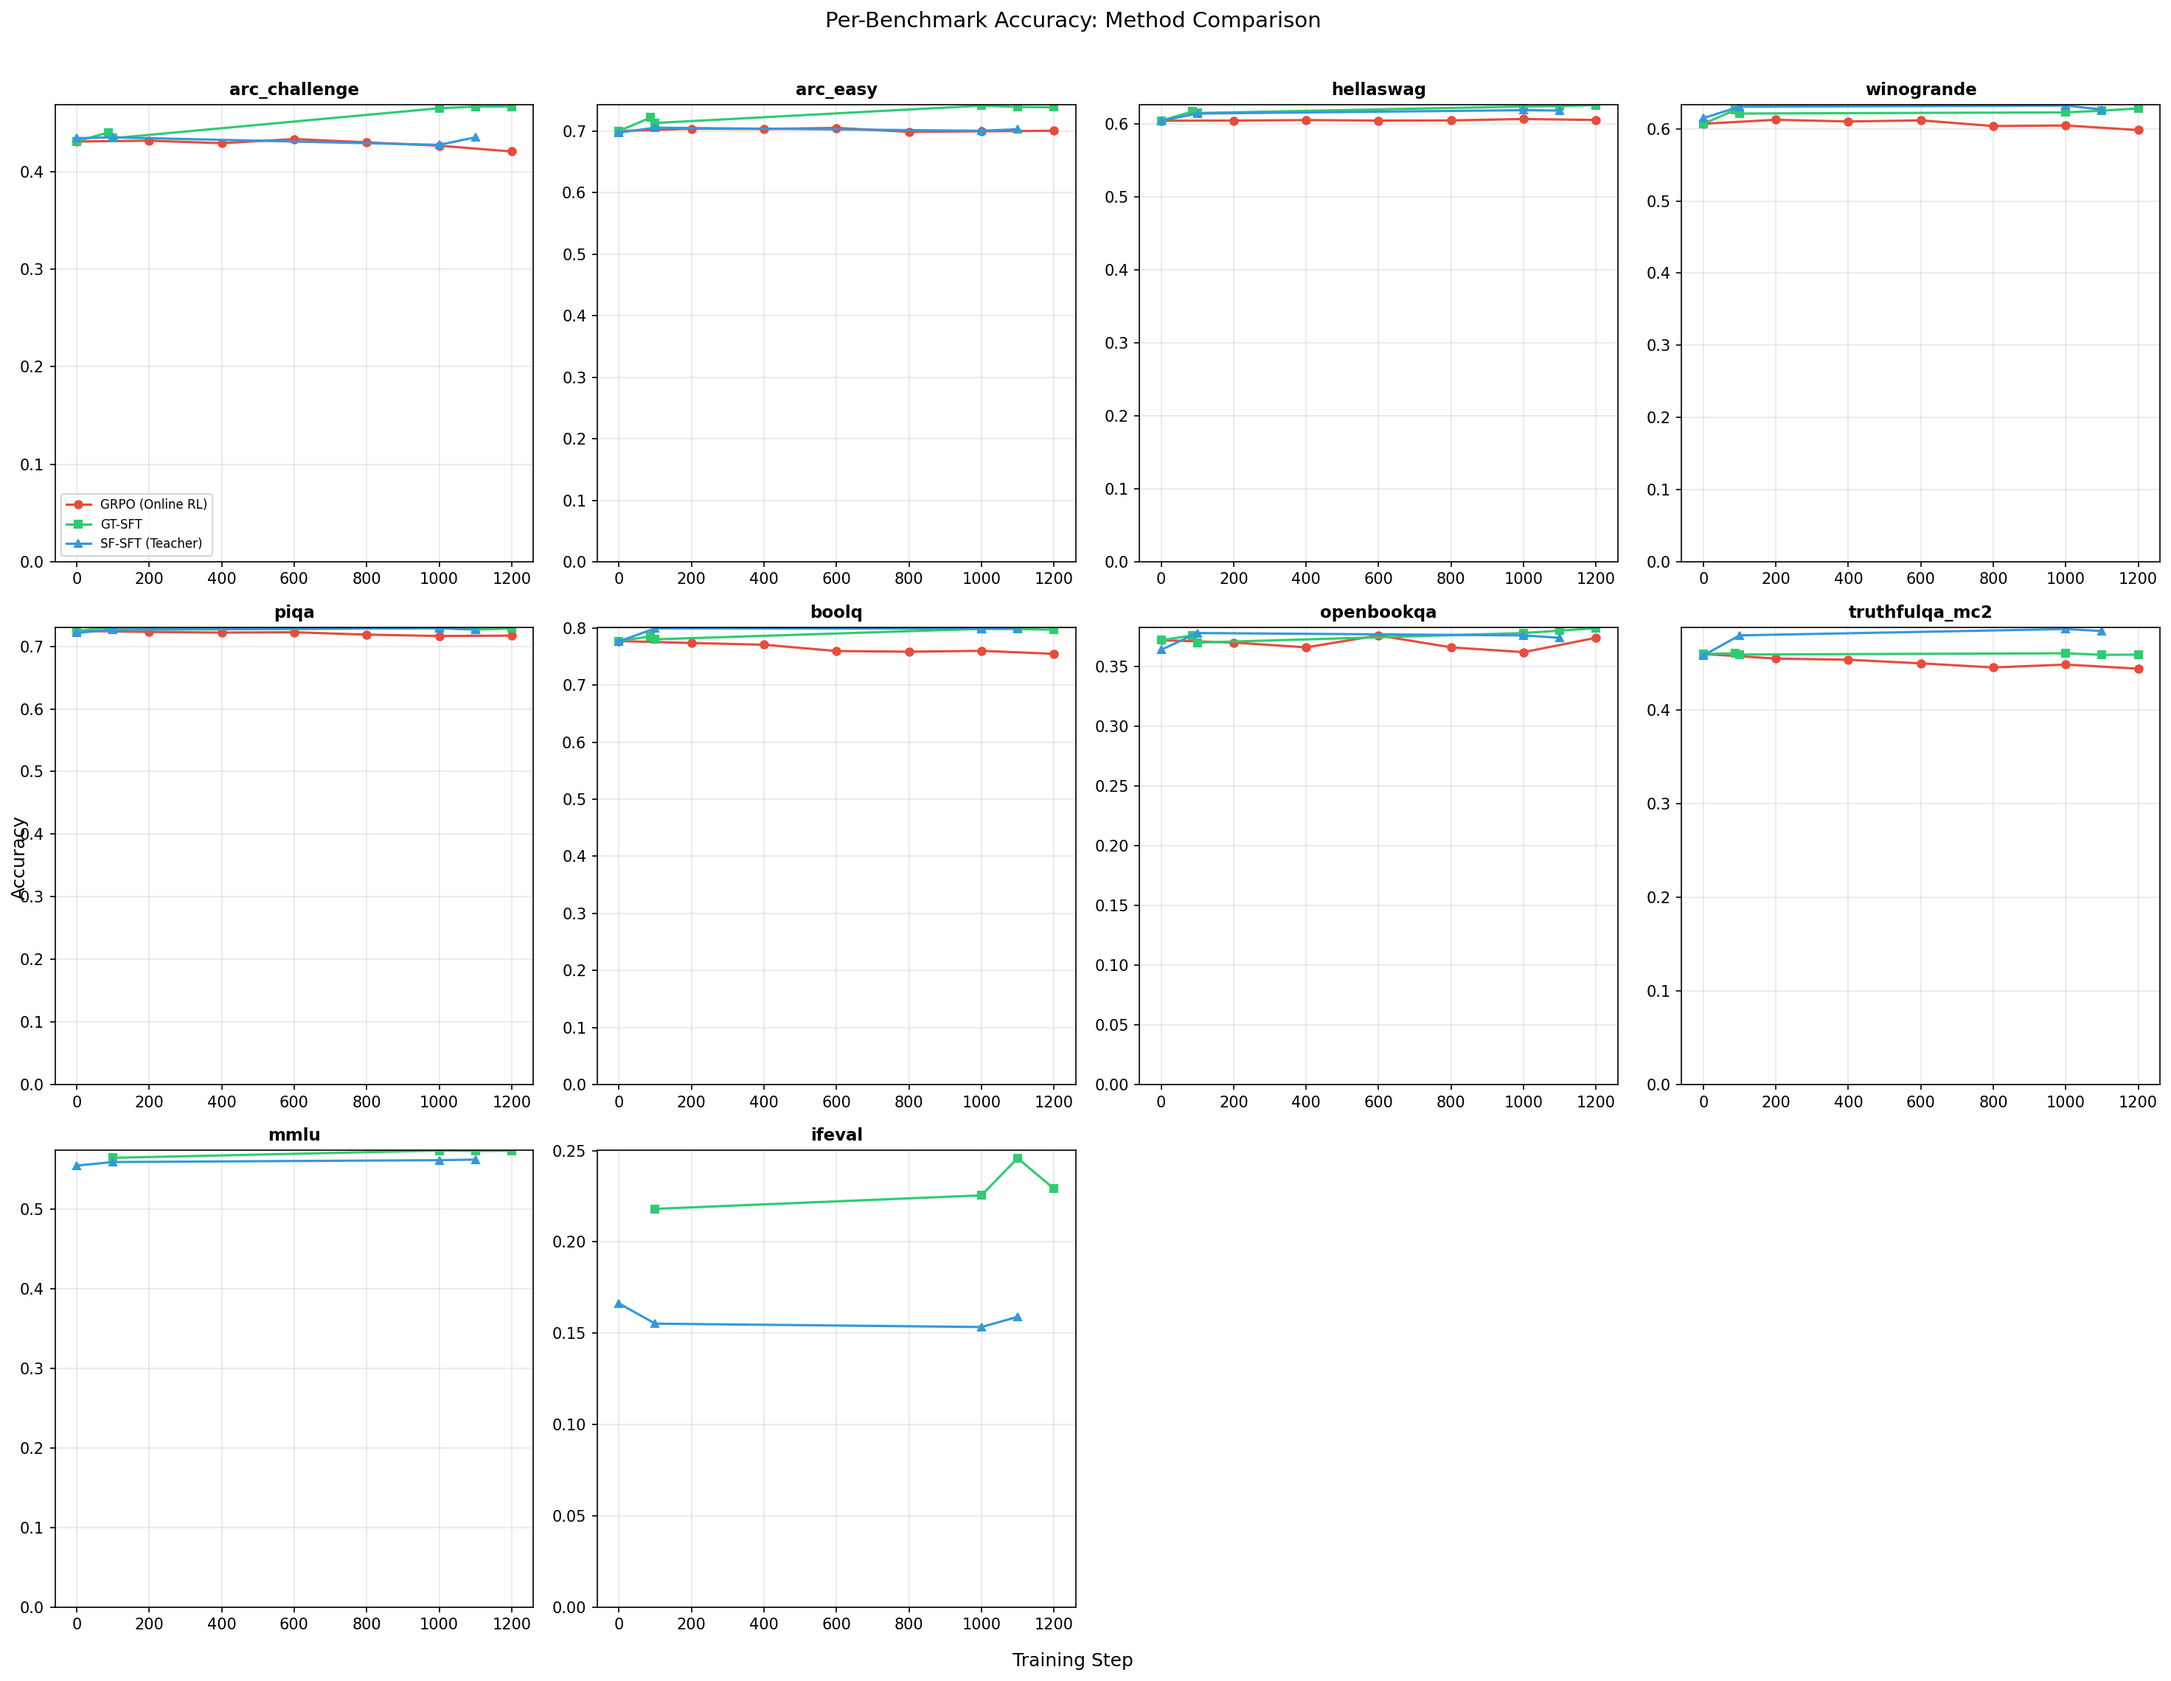
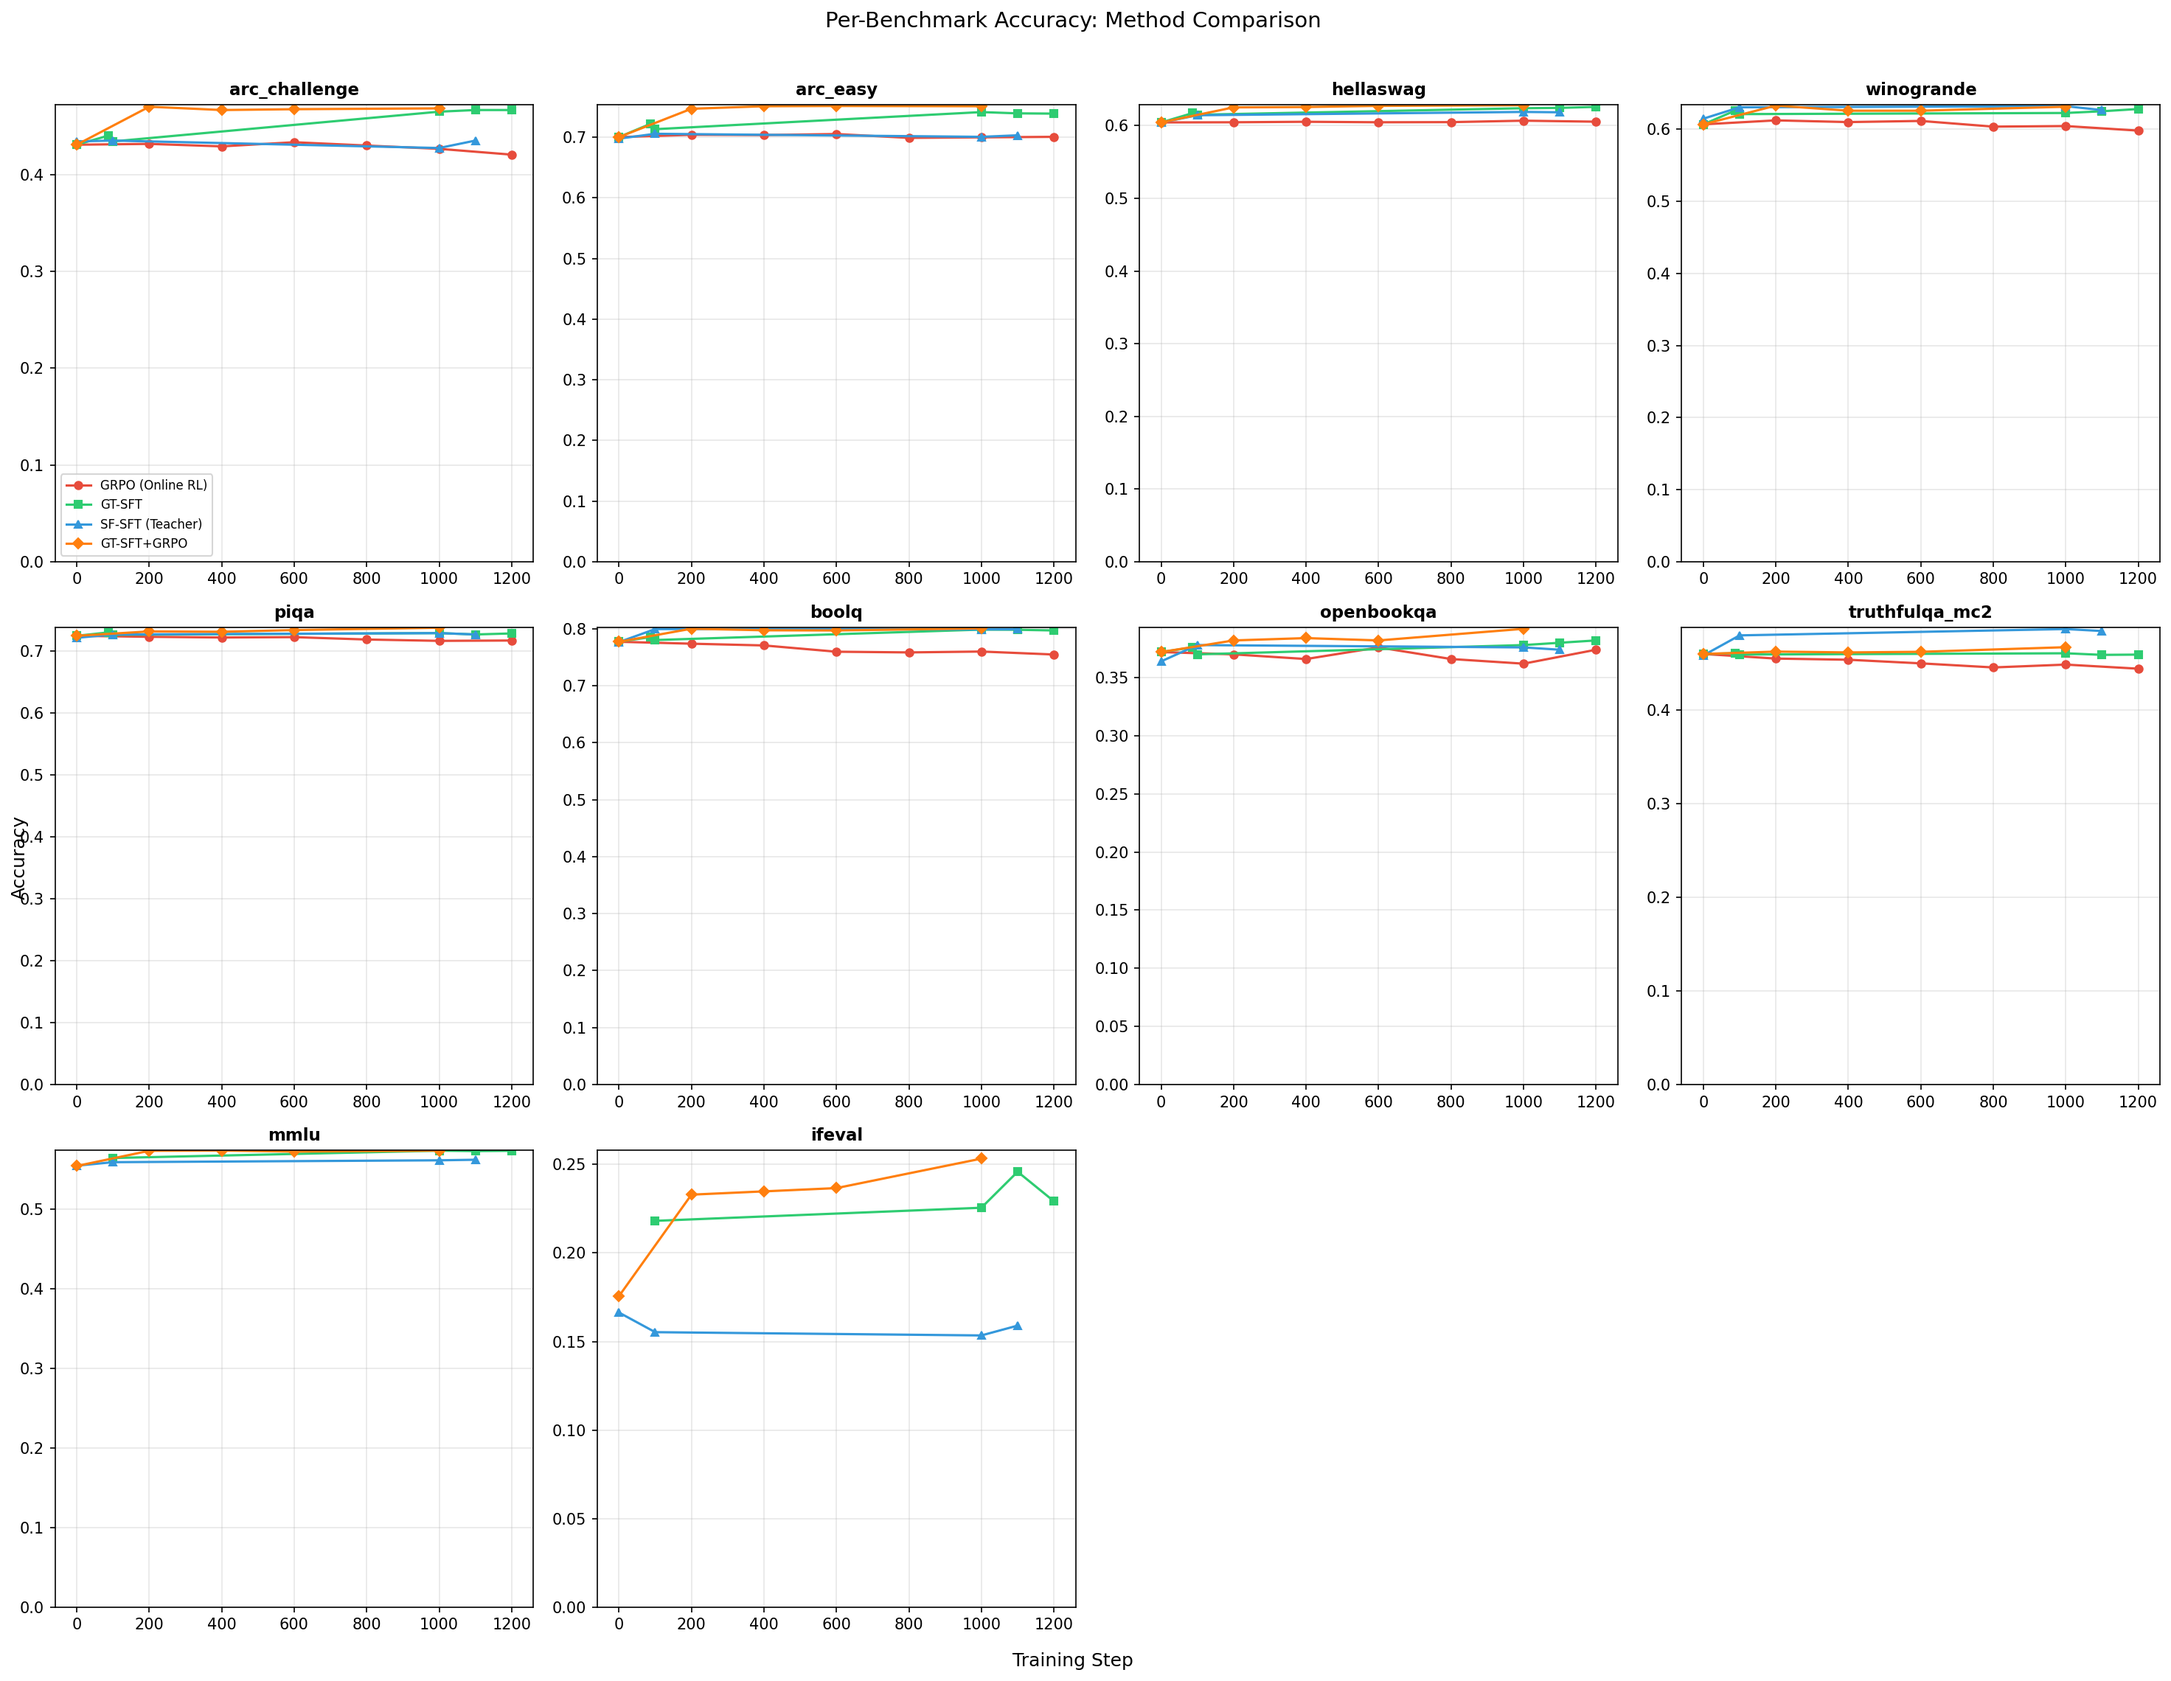
GT-SFT+GRPO GSM8K OOD results: +0.030 avg delta, best of all methods
First SFT+RL OOD eval complete. GT-SFT+GRPO shows strongest positive
OOD delta (+0.030), all 10 benchmarks positive. SFT warmstart
regularizes RL. SF-SFT+GRPO task accuracy also in (88.9% GSM8K).

diff --git a/STATUS.md b/STATUS.md
@@ -114,9 +114,9 @@ All checkpoint paths relative to `~/scratch/forgetting-llms/`.
 | GRPO TriviaQA | 4/6 | **Done** | PARTIAL |
 | GT-SFT TriviaQA | 4/15 | **Done** | PARTIAL |
 | SF-SFT TriviaQA | 2/13 | **Done** | PARTIAL |
-| GT-SFT+GRPO GSM8K | — | **Done** | Eval submitted |
-| GT-SFT+GRPO MATH | — | **Done** | Eval submitted |
-| GT-SFT+GRPO TriviaQA | — | **Done** | Eval submitted |
+| GT-SFT+GRPO GSM8K | **4/5** | **Done** | OOD nearly complete |
+| GT-SFT+GRPO MATH | — | **Done** | OOD queued |
+| GT-SFT+GRPO TriviaQA | — | **Done** | OOD queued |
 | SF-SFT+GRPO GSM8K | — | **Done** | OOD eval in progress |
 | SF-SFT+GRPO MATH | — | **Done** | OOD eval in progress |
 | SF-SFT+GRPO TriviaQA | — | **Done** | OOD eval in progress |
@@ -129,11 +129,12 @@ All checkpoint paths relative to `~/scratch/forgetting-llms/`.
 
 | Method | GSM8K | MATH | TriviaQA |
 |--------|-------|------|----------|
-| **GRPO** | **-0.0060** | -0.0010 | **-0.0023** |
-| **GT-SFT** | +0.0130 | +0.0096 | +0.0080 |
-| **SF-SFT** | +0.0089 | +0.0063 | +0.0087 |
+| **GT-SFT+GRPO** | **+0.0297** | Pending | Pending |
+| **GT-SFT** | +0.0188 | +0.0117 | +0.0120 |
+| **SF-SFT** | +0.0096 | +0.0072 | +0.0144 |
+| **GRPO** | -0.0076 | +0.0028 | -0.0026 |
 
-All SFT variants show positive OOD delta (no forgetting). GRPO shows mild forgetting on GSM8K and TriviaQA.
+GT-SFT+GRPO shows the **strongest positive OOD delta** (+0.030 on GSM8K, all 10 benchmarks positive). SFT warmstart + RL improves general capabilities more than any method alone. GRPO alone causes mild forgetting.
 
 ### Summary: Task Accuracy (in-distribution)
 
@@ -199,7 +200,7 @@ All SFT variants show positive OOD delta (no forgetting). GRPO shows mild forget
 
 1. **GRPO excels at task learning, SFT methods do not.** GRPO improves task accuracy dramatically (GSM8K +28pp, MATH +54pp, TriviaQA +61pp). GT-SFT either drops or barely moves task accuracy because it overwrites the model's native `<think>` reasoning with short-form answers.
 
-2. **SF-SFT+GRPO matches or beats pure GRPO on task accuracy.** SF-SFT warmstart + GRPO achieves 88.9% on GSM8K (vs pure GRPO 87.0%), ties on MATH (65.1% vs 65.1%), and reaches 69.0% on TriviaQA (vs GRPO 99.7%). GT-SFT+GRPO slightly trails: 83.2%, 61.6%, 65.7%. Key question: does SFT warmstart reduce OOD forgetting? (eval in progress).
+2. **SFT+GRPO: best of both worlds.** SF-SFT+GRPO matches or beats pure GRPO on task accuracy (GSM8K 88.9% vs 87.0%, MATH 65.1% tie, TriviaQA 69.0% vs 99.7%). GT-SFT+GRPO on GSM8K shows the **strongest OOD improvement** of any method (+0.030 avg across 10 benchmarks, all positive) — better than GT-SFT alone (+0.019) and far better than pure GRPO (-0.008). SFT warmstart appears to regularize RL training.
 
 3. **SF-SFT partially recovers task accuracy.** By training on Qwen3-32B teacher solutions that preserve `<think>`, SF-SFT achieves 66% on GSM8K (vs GT-SFT 55%, base 59%). Still far below GRPO (87%). However, SF-SFT fails on MATH (43% teacher pass rate bottleneck).
 
@@ -221,12 +222,12 @@ Using SFT step 500 (~1 epoch) as warmstart, then GRPO for 15 epochs. Tests wheth
 
 | Experiment | Steps | Ckpts | Task Acc (best) | OOD Eval |
 |-----------|-------|-------|----------------|----------|
-| GT-SFT+GRPO GSM8K | 1,199 | 5 | **83.2%** (step 1000) | Pending |
-| GT-SFT+GRPO MATH | 892 | 4 | **61.6%** (step 800) | Pending |
-| GT-SFT+GRPO TriviaQA | 2,253 | 11 | **65.7%** (step 1400) | Pending |
-| SF-SFT+GRPO GSM8K | 1,253 | 6 | **88.9%** (step 1200) | Pending |
-| SF-SFT+GRPO MATH | 987 | 4 | **65.1%** (step 800) | Pending |
-| SF-SFT+GRPO TriviaQA | 2,201 | 11 | **69.0%** (step 2000) | Pending |
+| GT-SFT+GRPO GSM8K | 1,199 | 5 | **83.2%** (step 1000) | **+0.030** (4/5 steps) |
+| GT-SFT+GRPO MATH | 892 | 4 | **61.6%** (step 800) | Queued |
+| GT-SFT+GRPO TriviaQA | 2,253 | 11 | **65.7%** (step 1400) | Queued |
+| SF-SFT+GRPO GSM8K | 1,253 | 6 | **88.9%** (step 1200) | Queued |
+| SF-SFT+GRPO MATH | 987 | 4 | **65.1%** (step 800) | Queued |
+| SF-SFT+GRPO TriviaQA | 2,201 | 11 | **69.0%** (step 2000) | Queued |
 
 ---
 
